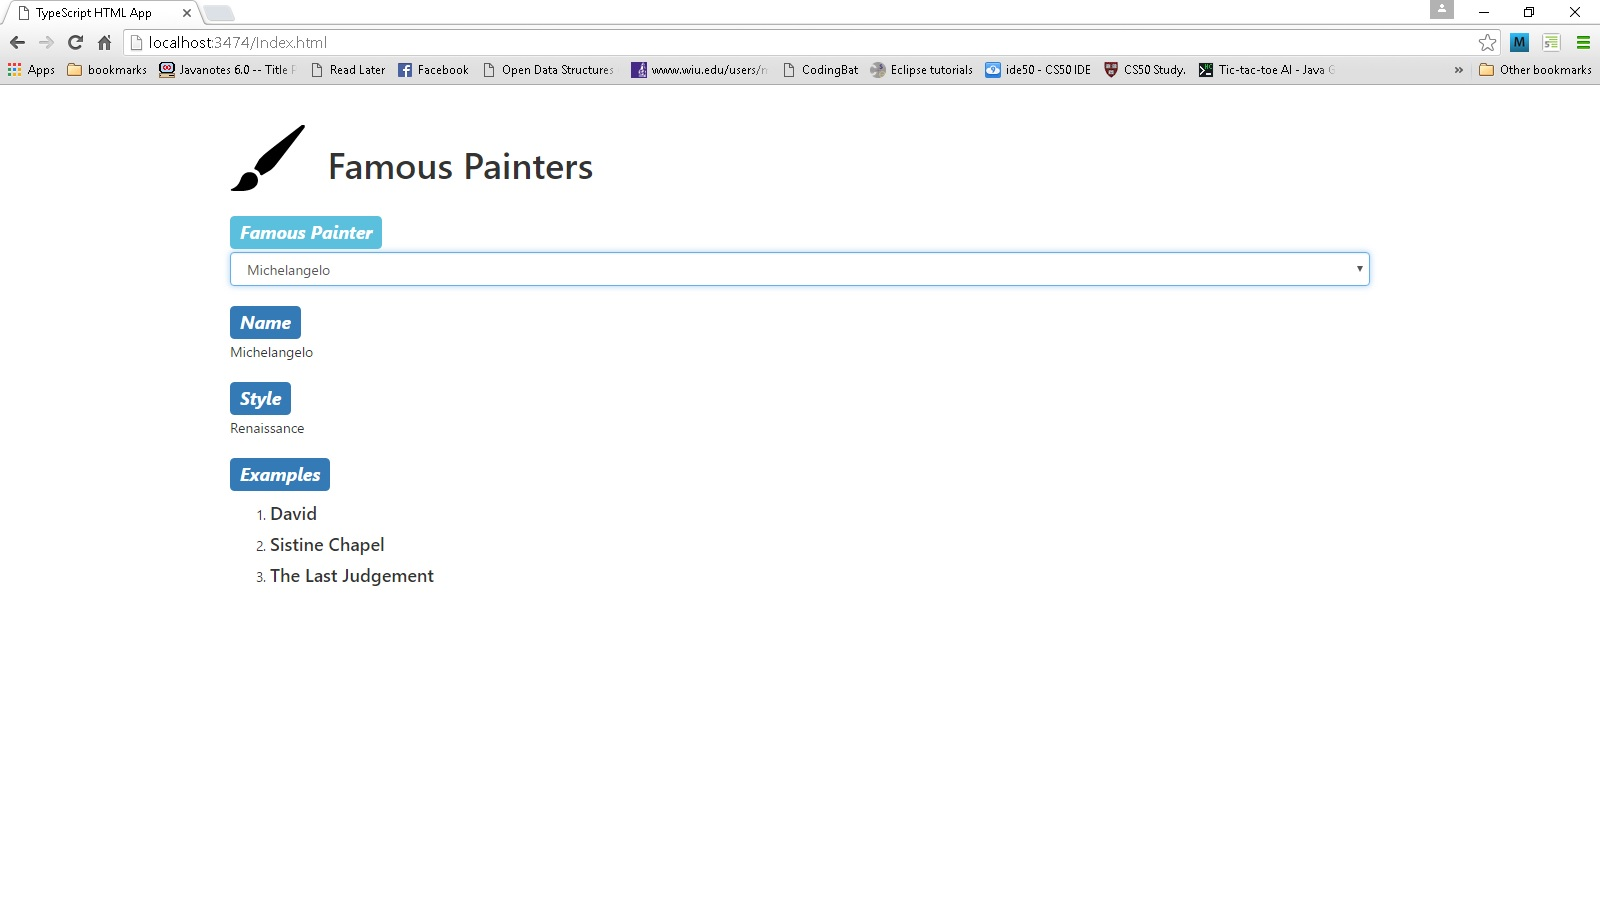
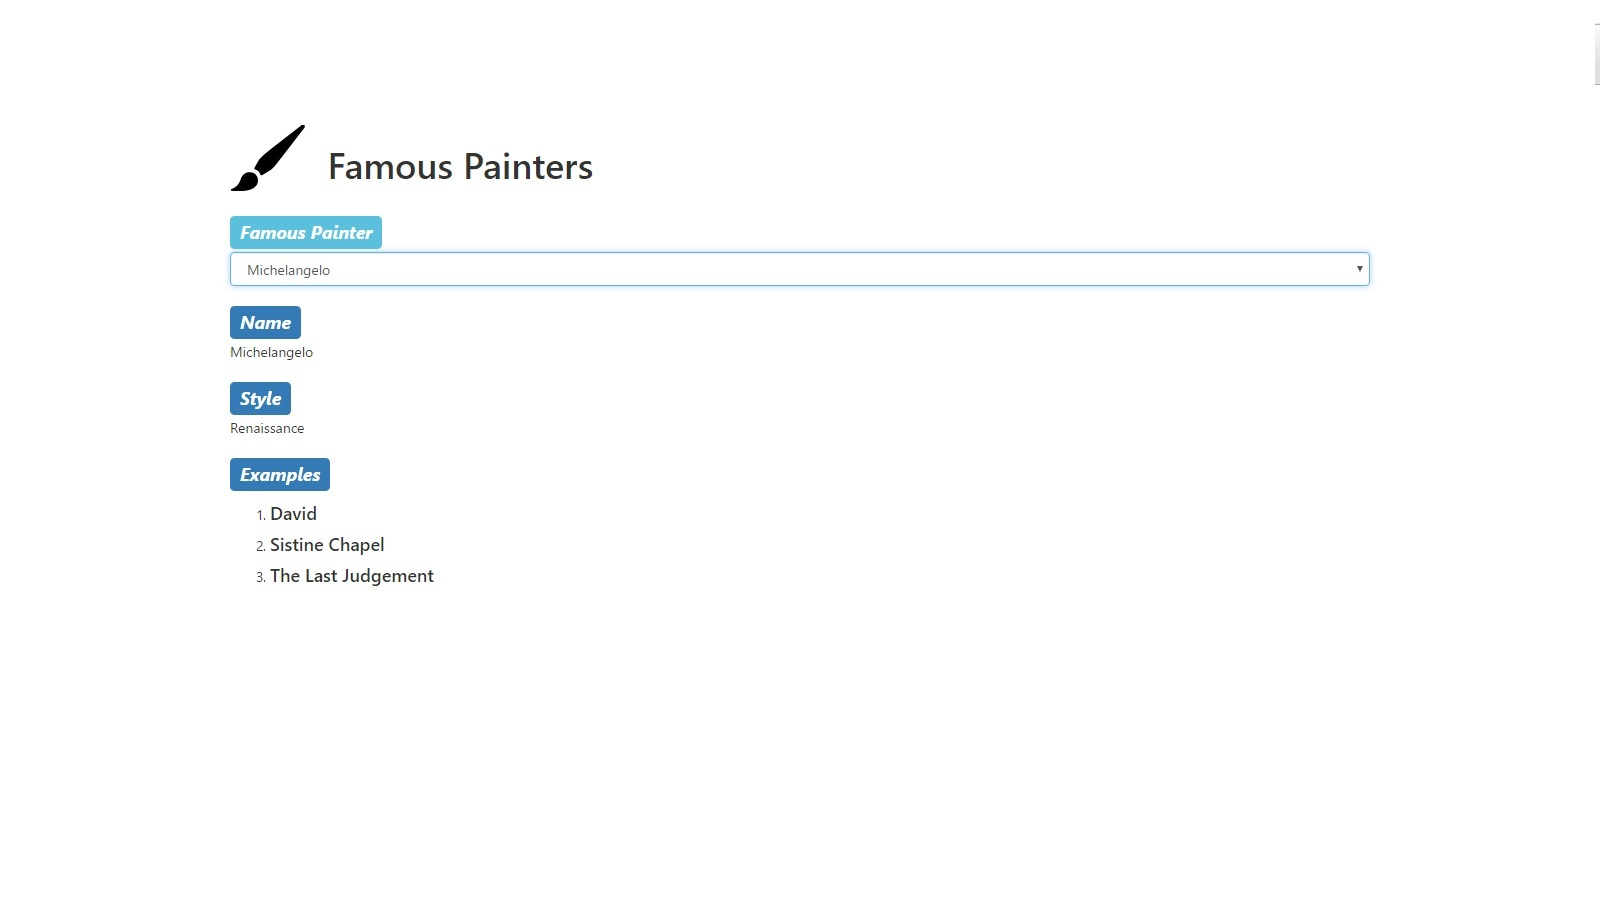
updates to readme and screenshot

Changed region(s): [[0.0, 0.0, 1.0, 0.0933]]

diff --git a/README.md b/README.md
@@ -2,7 +2,7 @@
 A famous painters page I created while learning Typescript
 
 #Screenshot
-
+![FamousPainters](https://raw.githubusercontent.com/jarhoads/FamousPainters/master/docs/screenshot.jpg)
 
 ## What it does
 This app will read data (in JSON form) form from [/json/famousPainters.json](https://github.com/jarhoads/FamousPainters/blob/master/src/json/famousPainters.json) (using jQuery) and used that to display
